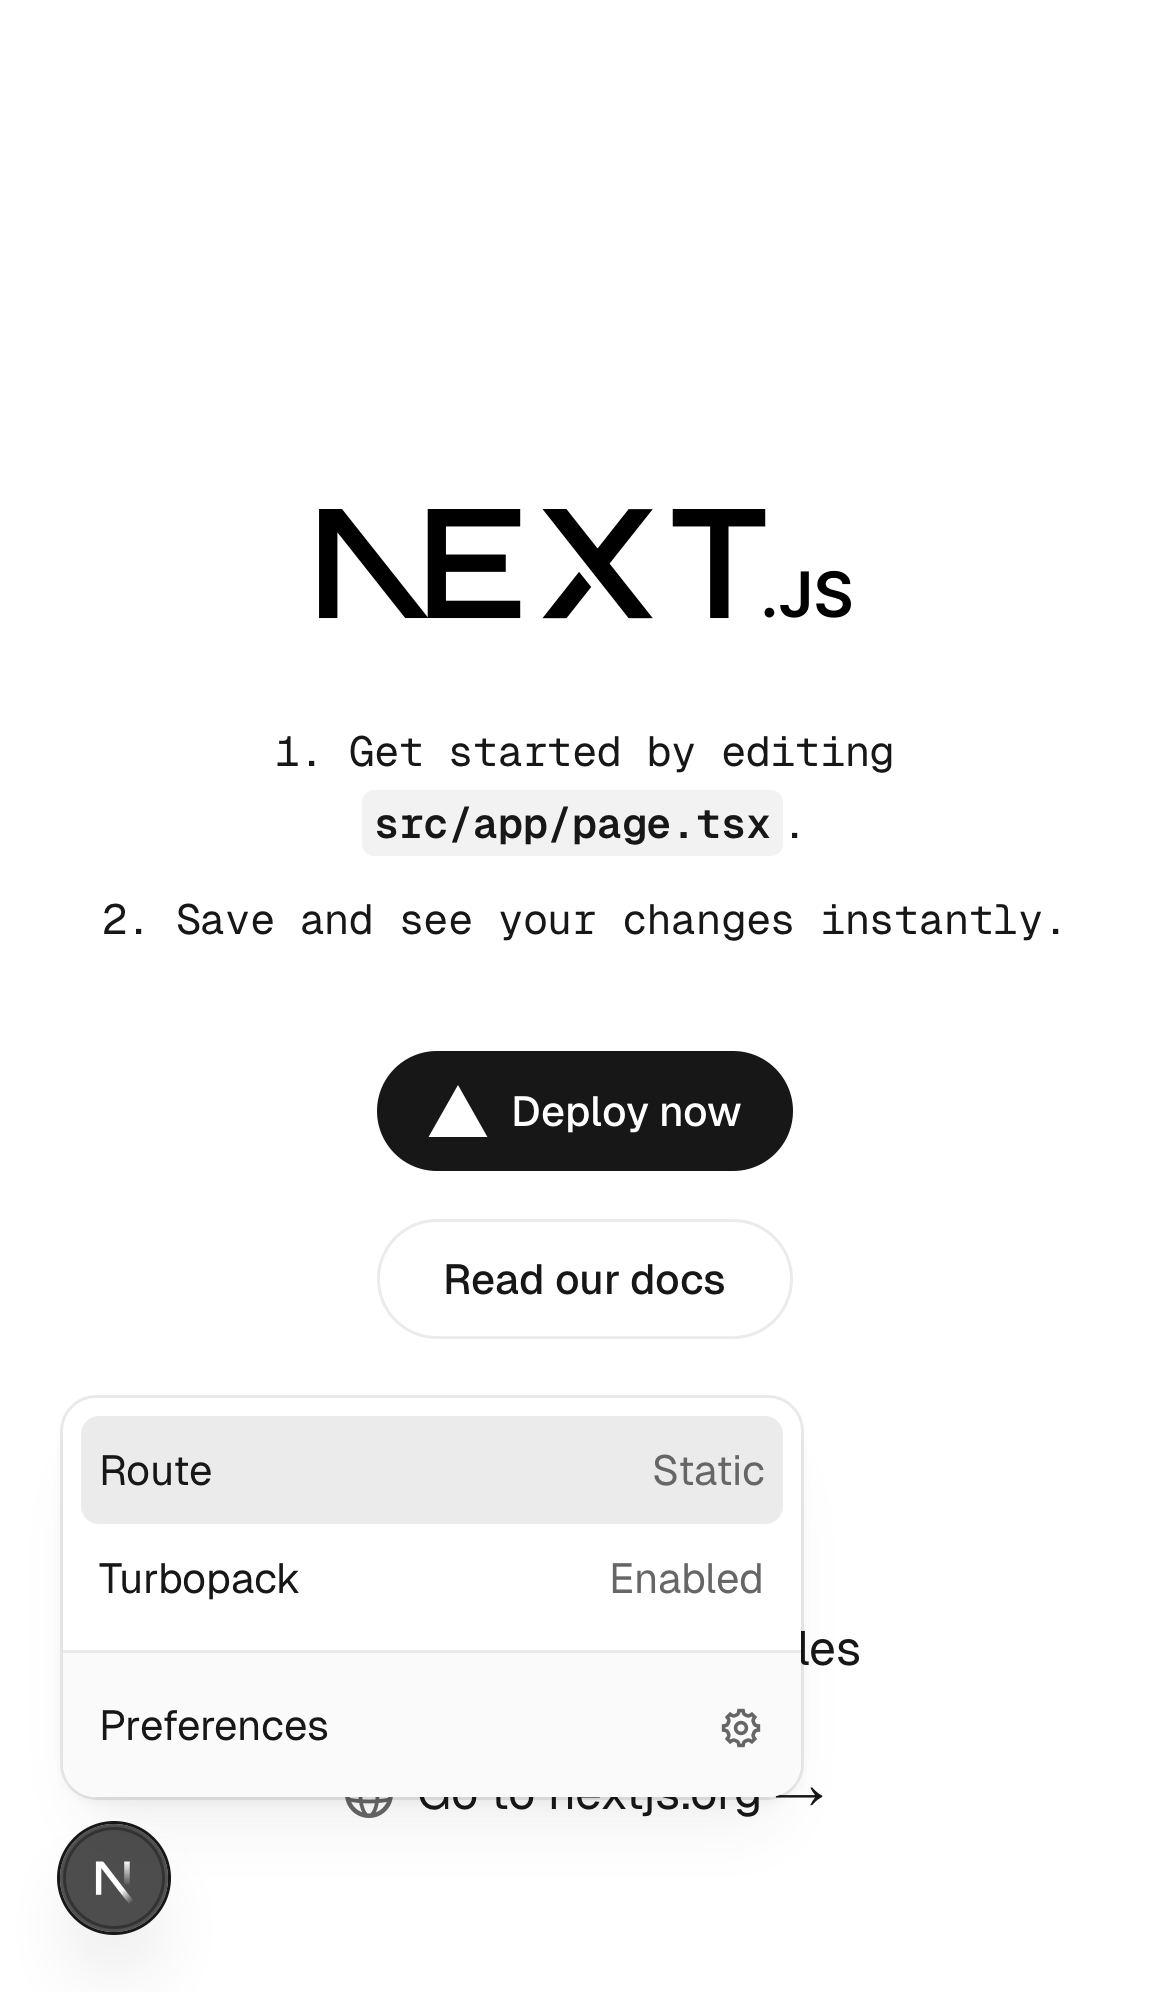
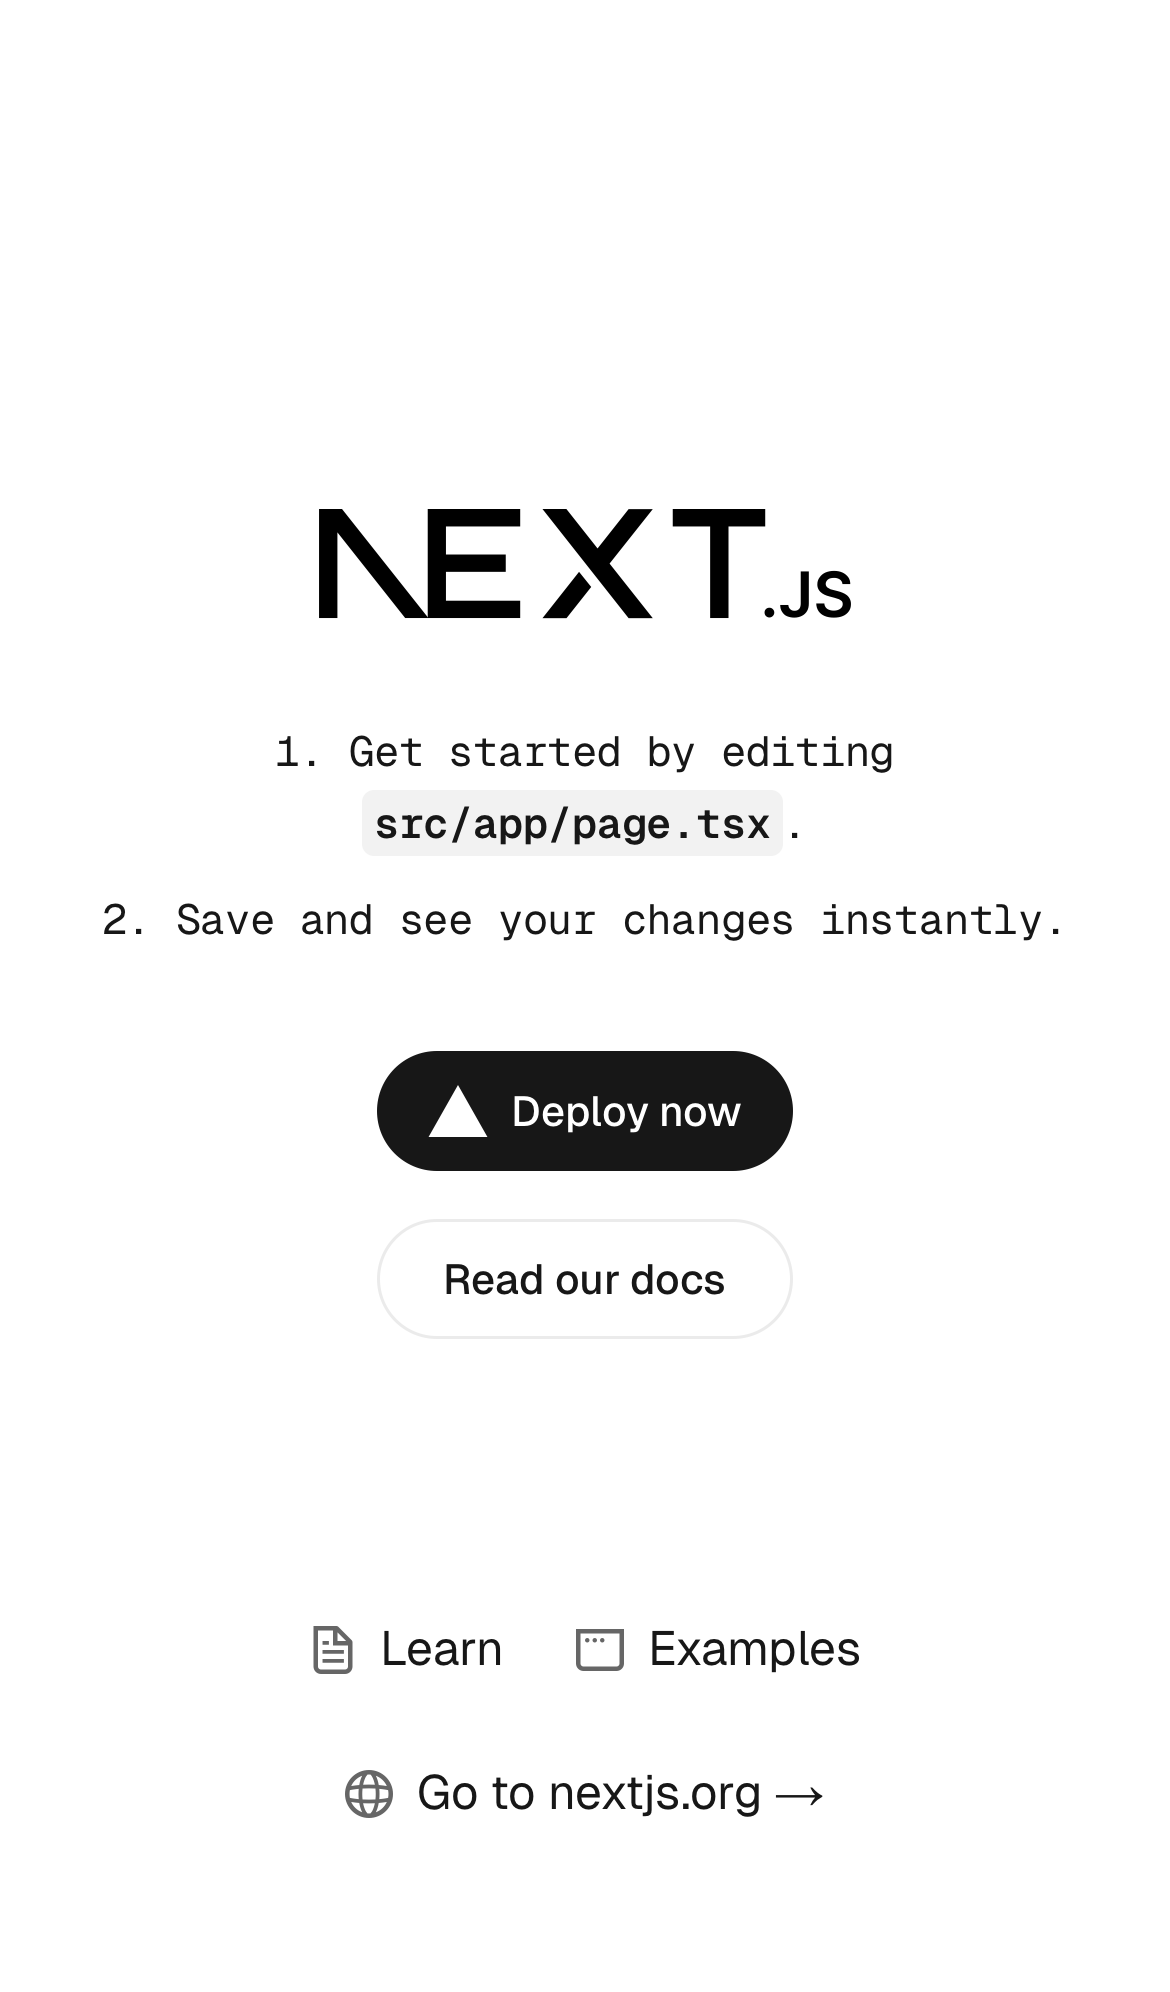
Update test

diff --git a/tests/example.spec.ts b/tests/example.spec.ts
@@ -20,9 +20,7 @@ test('Screenshot', async ({ page }) => {
   await page.goto('http://localhost:3000/');
 
 
-  page.getByLabel('Open Next.js Dev Tools').click();
-
-  await page.waitForTimeout(1000);
+  page.getByRole('link', { name: 'Deploy now' }).click();
 
   await page.screenshot({ path: 'screenshots/vercel.png' });
 });
